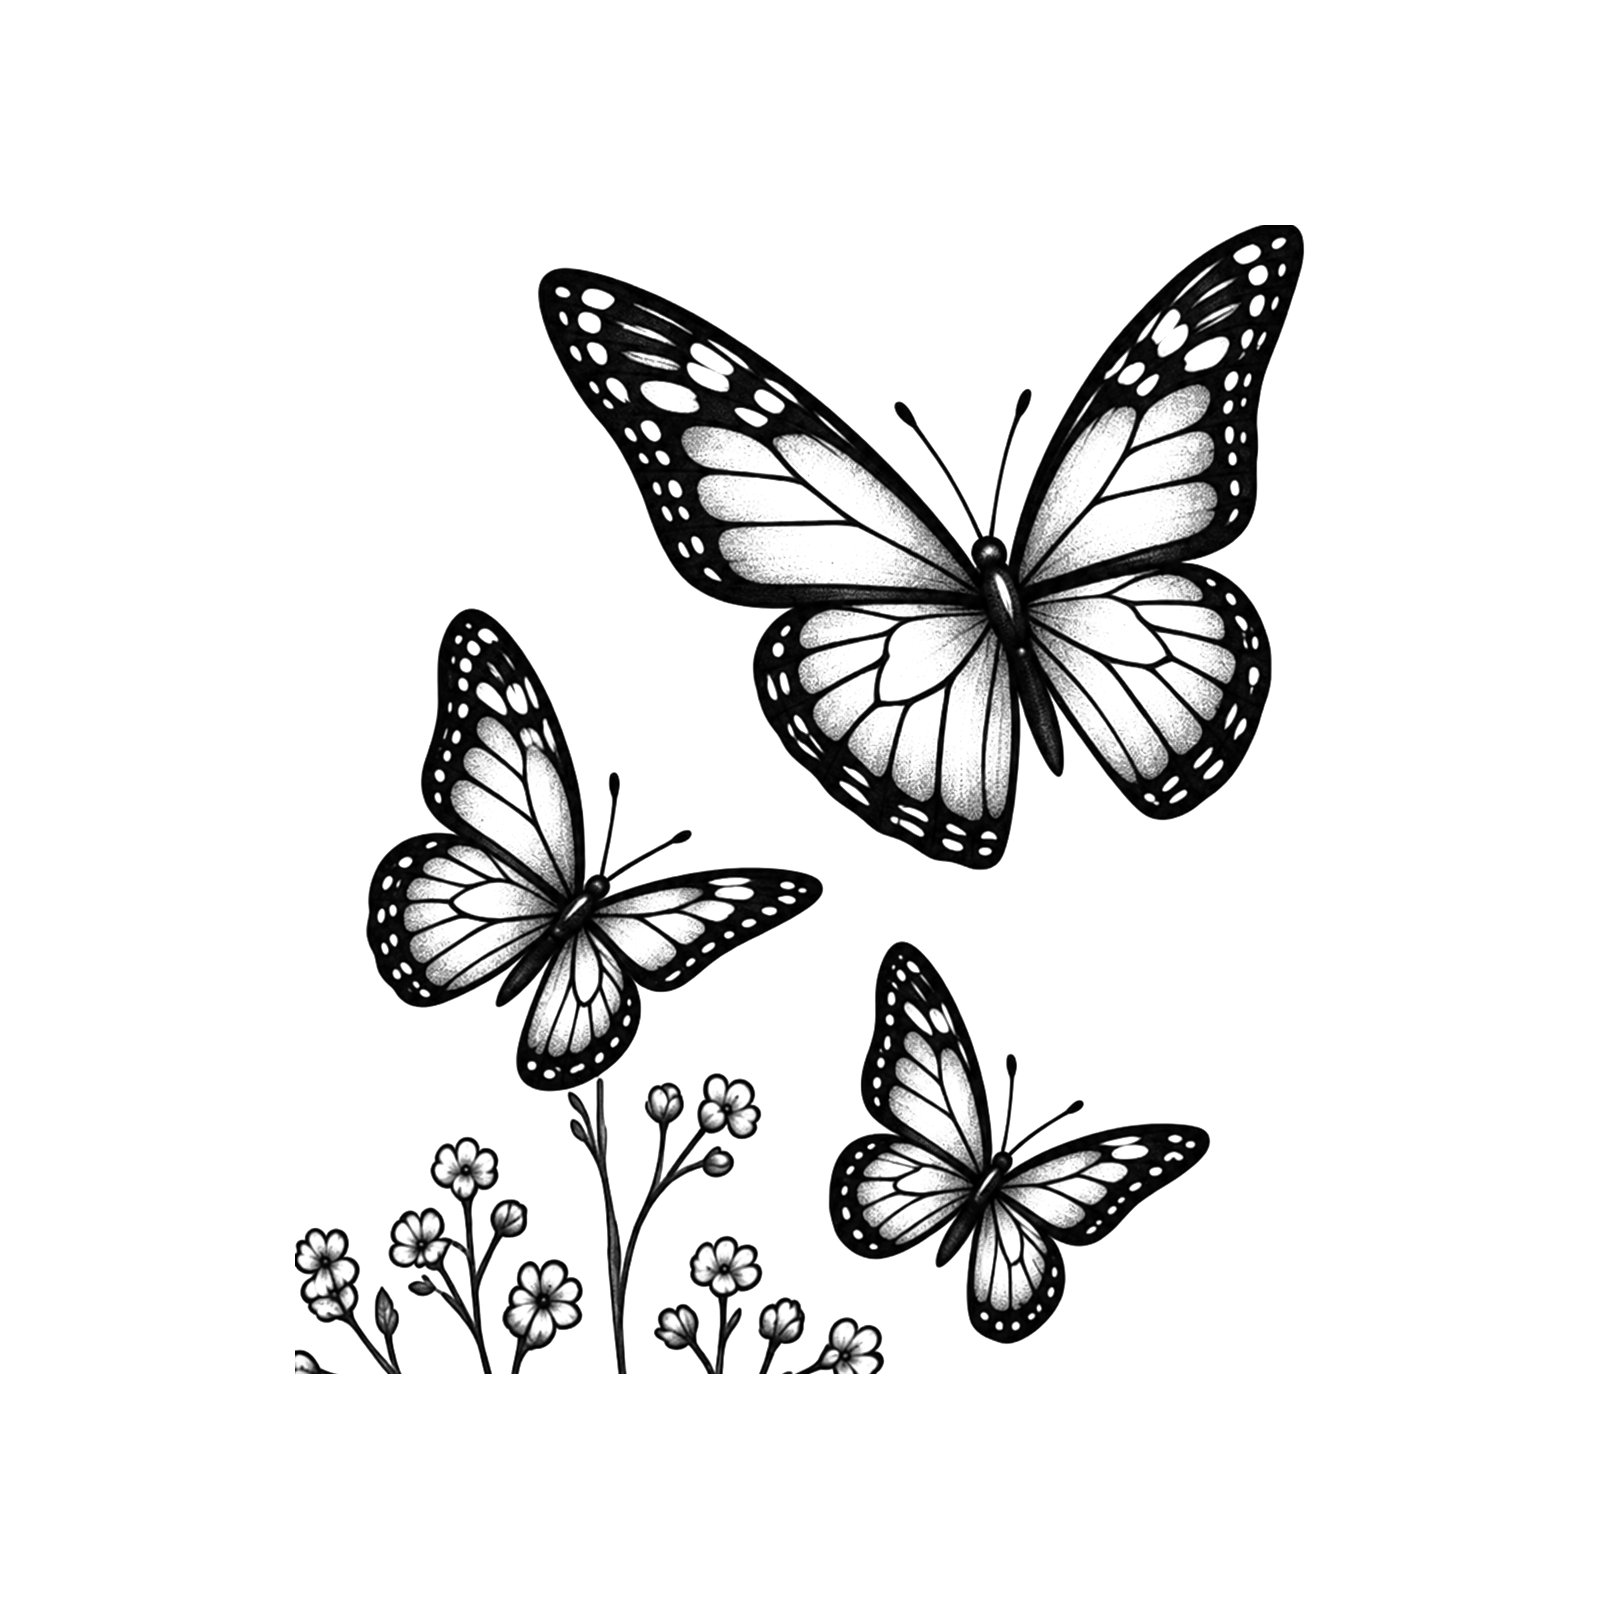
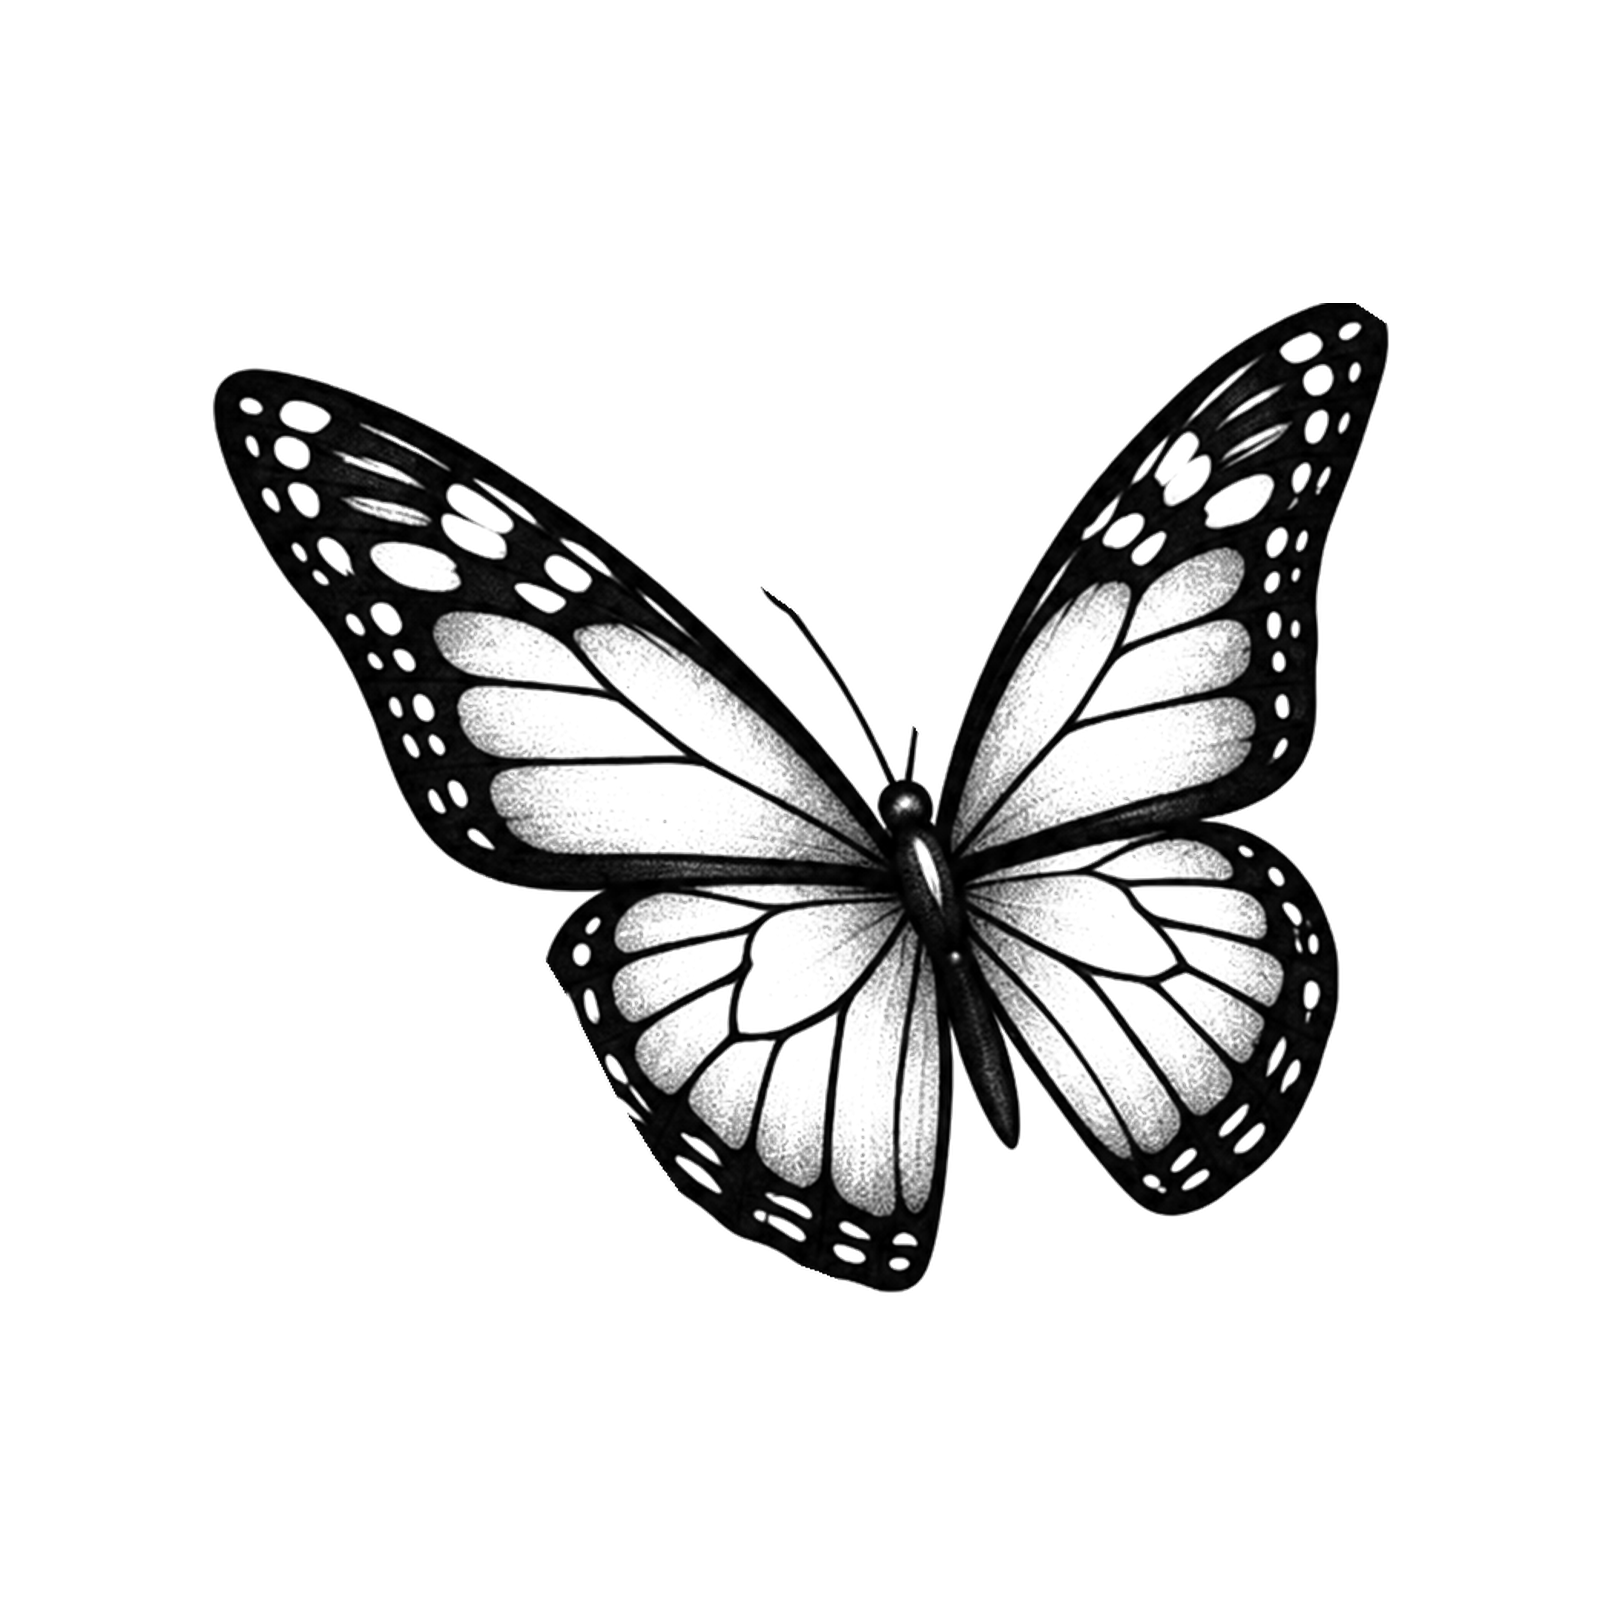
Nettoyer et recadrer trois flashs existants

Changed region(s): [[0.125, 0.125, 0.875, 0.875]]

diff --git a/src/data/flashSeptemberMetadata.ts b/src/data/flashSeptemberMetadata.ts
@@ -127,7 +127,7 @@ export const flashSeptemberMetadataBySlot: Record<number, SeptemberFlashMetadata
  119: { categories: ["Soleil & Lune","Objets","Fantaisie","Magie"], style: "Illustratif", title: "Bateau enchanté", searchTerms: ["bateau","magie"] },
  120: { categories: ["Personnage","Anime Girl","Fantaisie","Magie"], style: "Manga / Animé", title: "Princesse elfique", searchTerms: ["princesse","elfe"] },
  121: { categories: ["Objets","Jeux vidéo","Cartoon"], style: "Graphique", title: "Téléviseur rétro", searchTerms: ["téléviseur","tv","rétro"] },
- 122: { categories: ["Papillons","Fleurs","Nature"], style: "Floral", title: "Papillons et fleurs", searchTerms: ["papillons","fleurs"] },
+ 122: { categories: ["Papillons","Nature"], style: "Ornemental", title: "Grand papillon", searchTerms: ["papillon","papillons"] },
  123: { categories: ["Personnage","Manga","Nature","Fantaisie"], style: "Manga / Animé", title: "Gon Freecss pêcheur", searchTerms: ["gon","hunter x hunter","pêche"] },
  124: { categories: ["Personnage","Manga","Jeux vidéo","Fantaisie"], style: "Manga / Animé", title: "Vegeta", searchTerms: ["vegeta","dragon ball","dbz"] },
  125: { categories: ["Objets","Soleil & Lune","Magie","Fantaisie"], style: "Ornemental", title: "Lune et potion", searchTerms: ["lune","potion"] },

diff --git a/src/data/flashSeptemberPublished.ts b/src/data/flashSeptemberPublished.ts
@@ -7,7 +7,7 @@ import { flashSeptemberMetadataBySlot } from "./flashSeptemberMetadata";
 export const FLASH_SEPTEMBER_PUBLISHED_FLASH_COUNT = 330;
 export const FLASH_SEPTEMBER_LEGACY_FLASH_COUNT = Object.keys(flashSeptemberMetadataBySlot).length;
 export const FLASH_SEPTEMBER_METADATA_VERSION = 2;
-export const FLASH_SEPTEMBER_ASSET_VERSION = "2026-09-17-clean-3";
+export const FLASH_SEPTEMBER_ASSET_VERSION = "2026-09-19-clean-4";
 
 export const flashSeptemberPublishedFlashs: SeptemberFlash[] = Array.from(
   { length: FLASH_SEPTEMBER_PUBLISHED_FLASH_COUNT },
